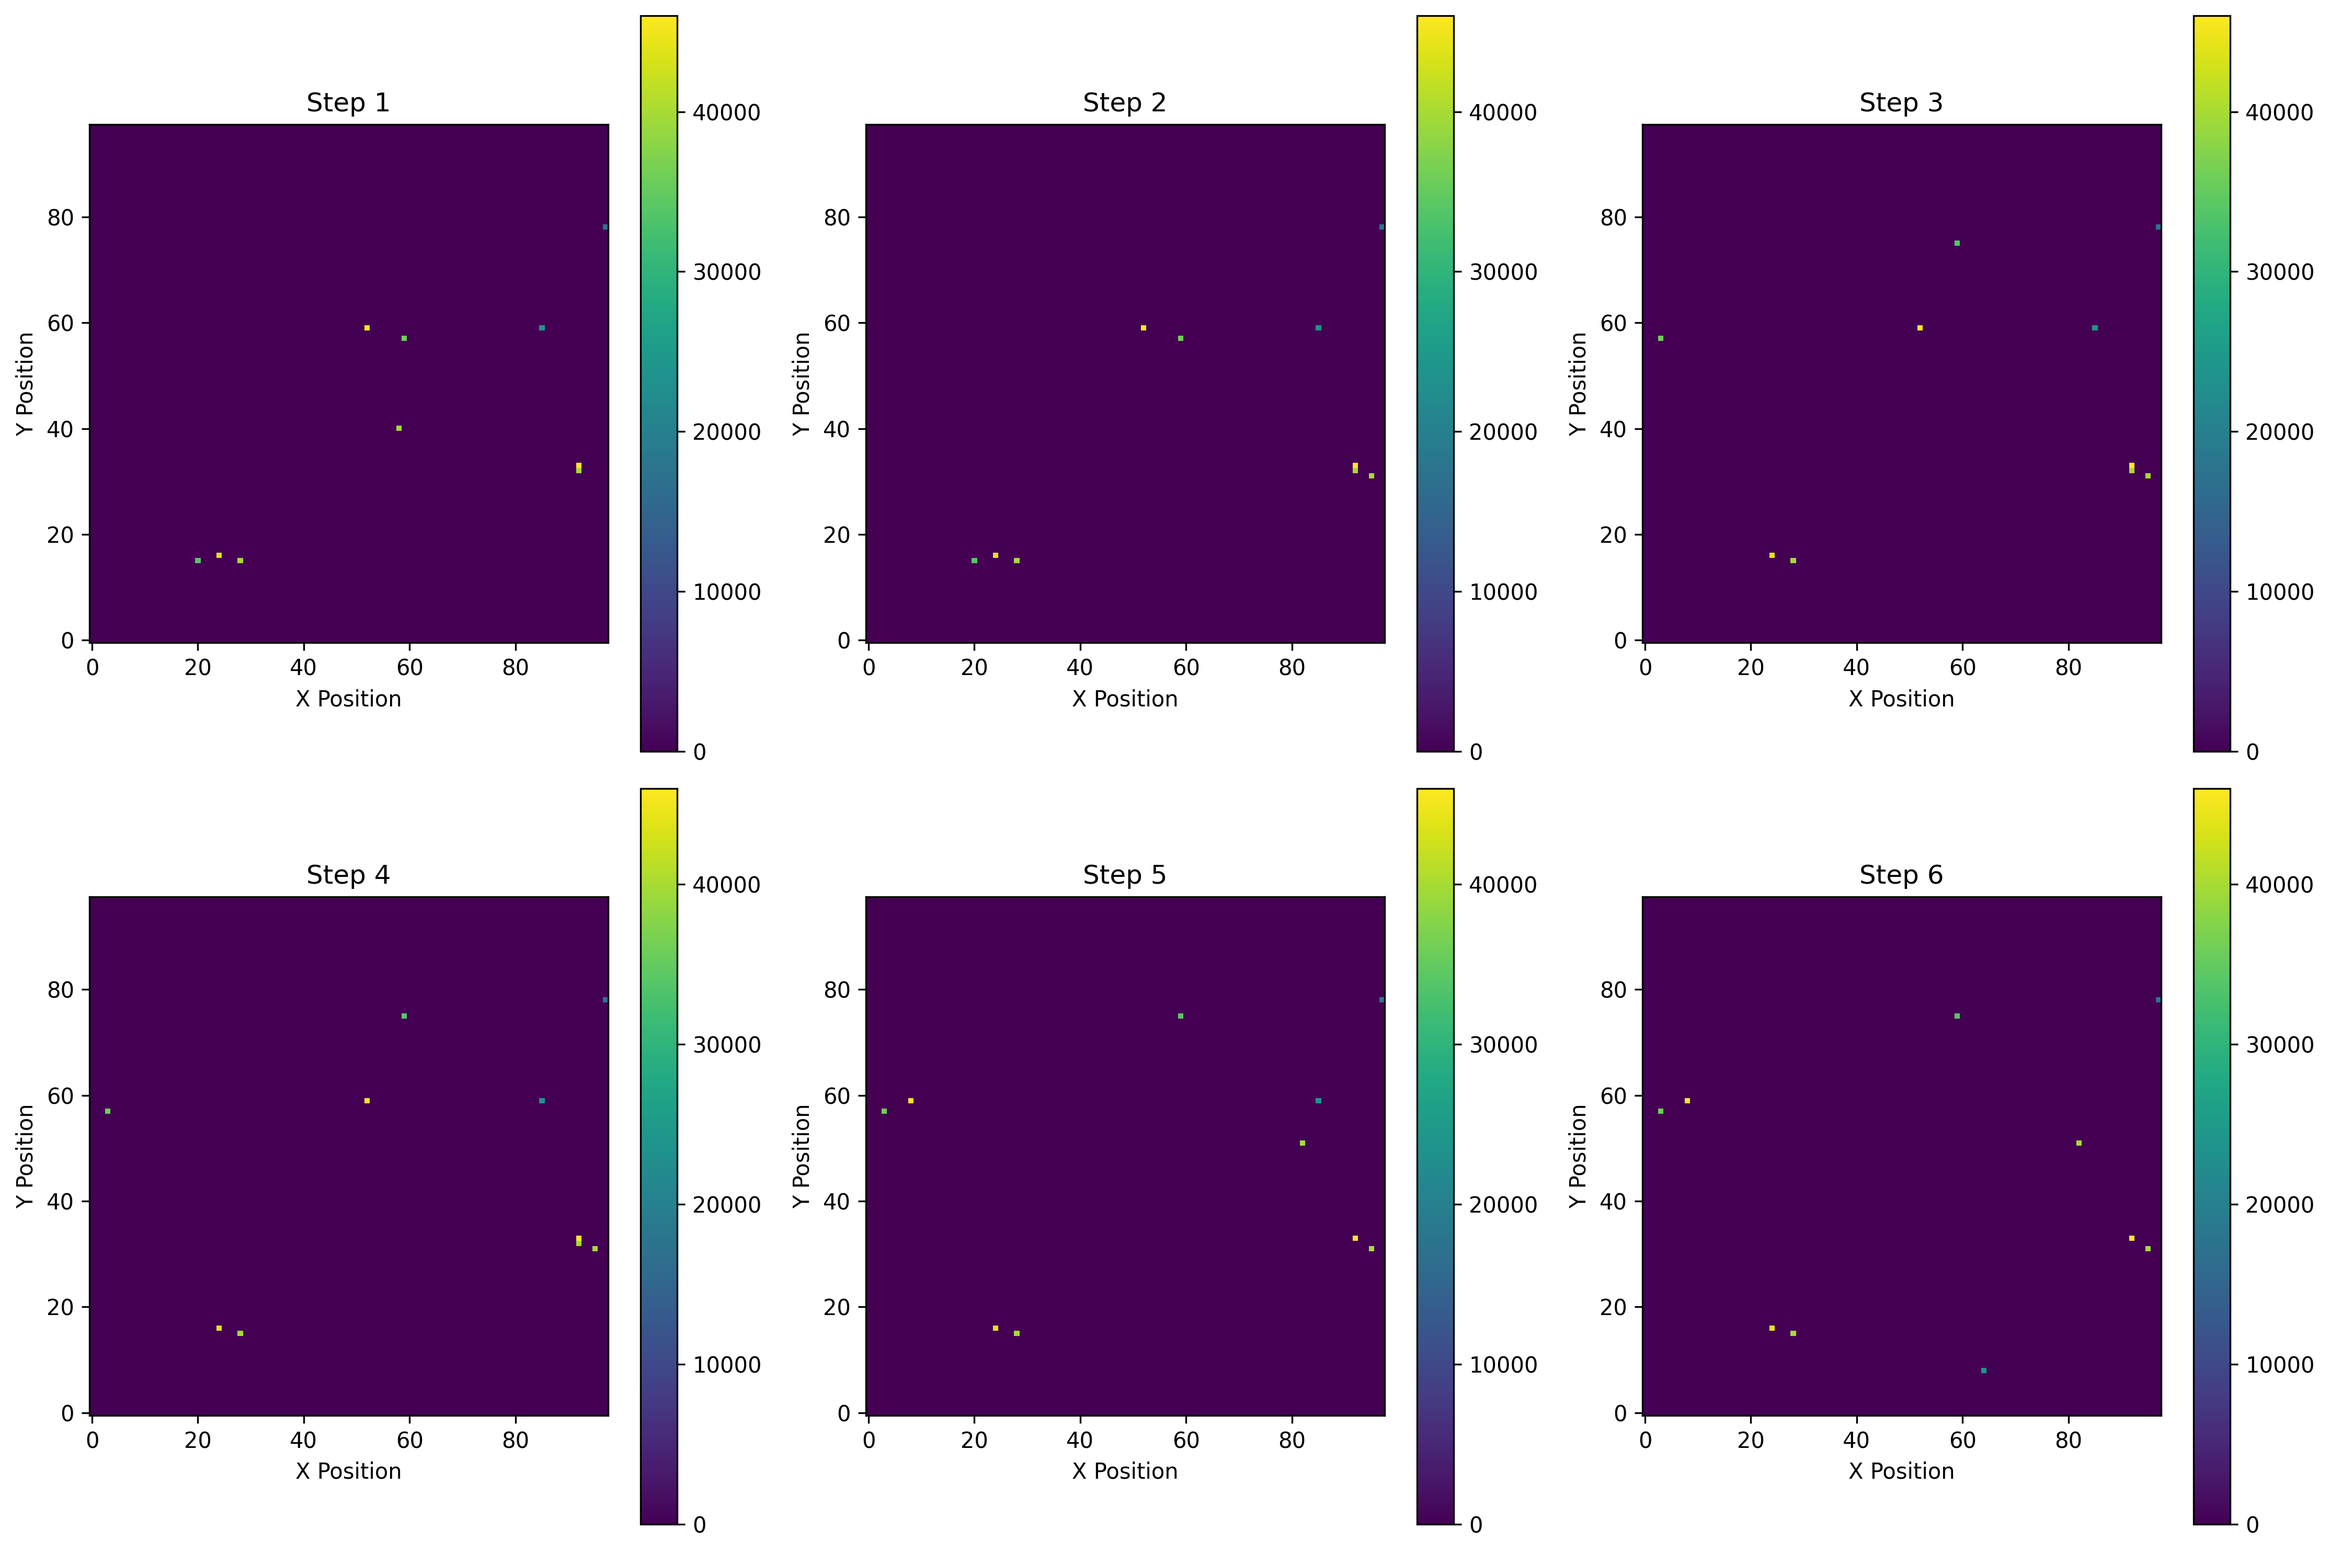
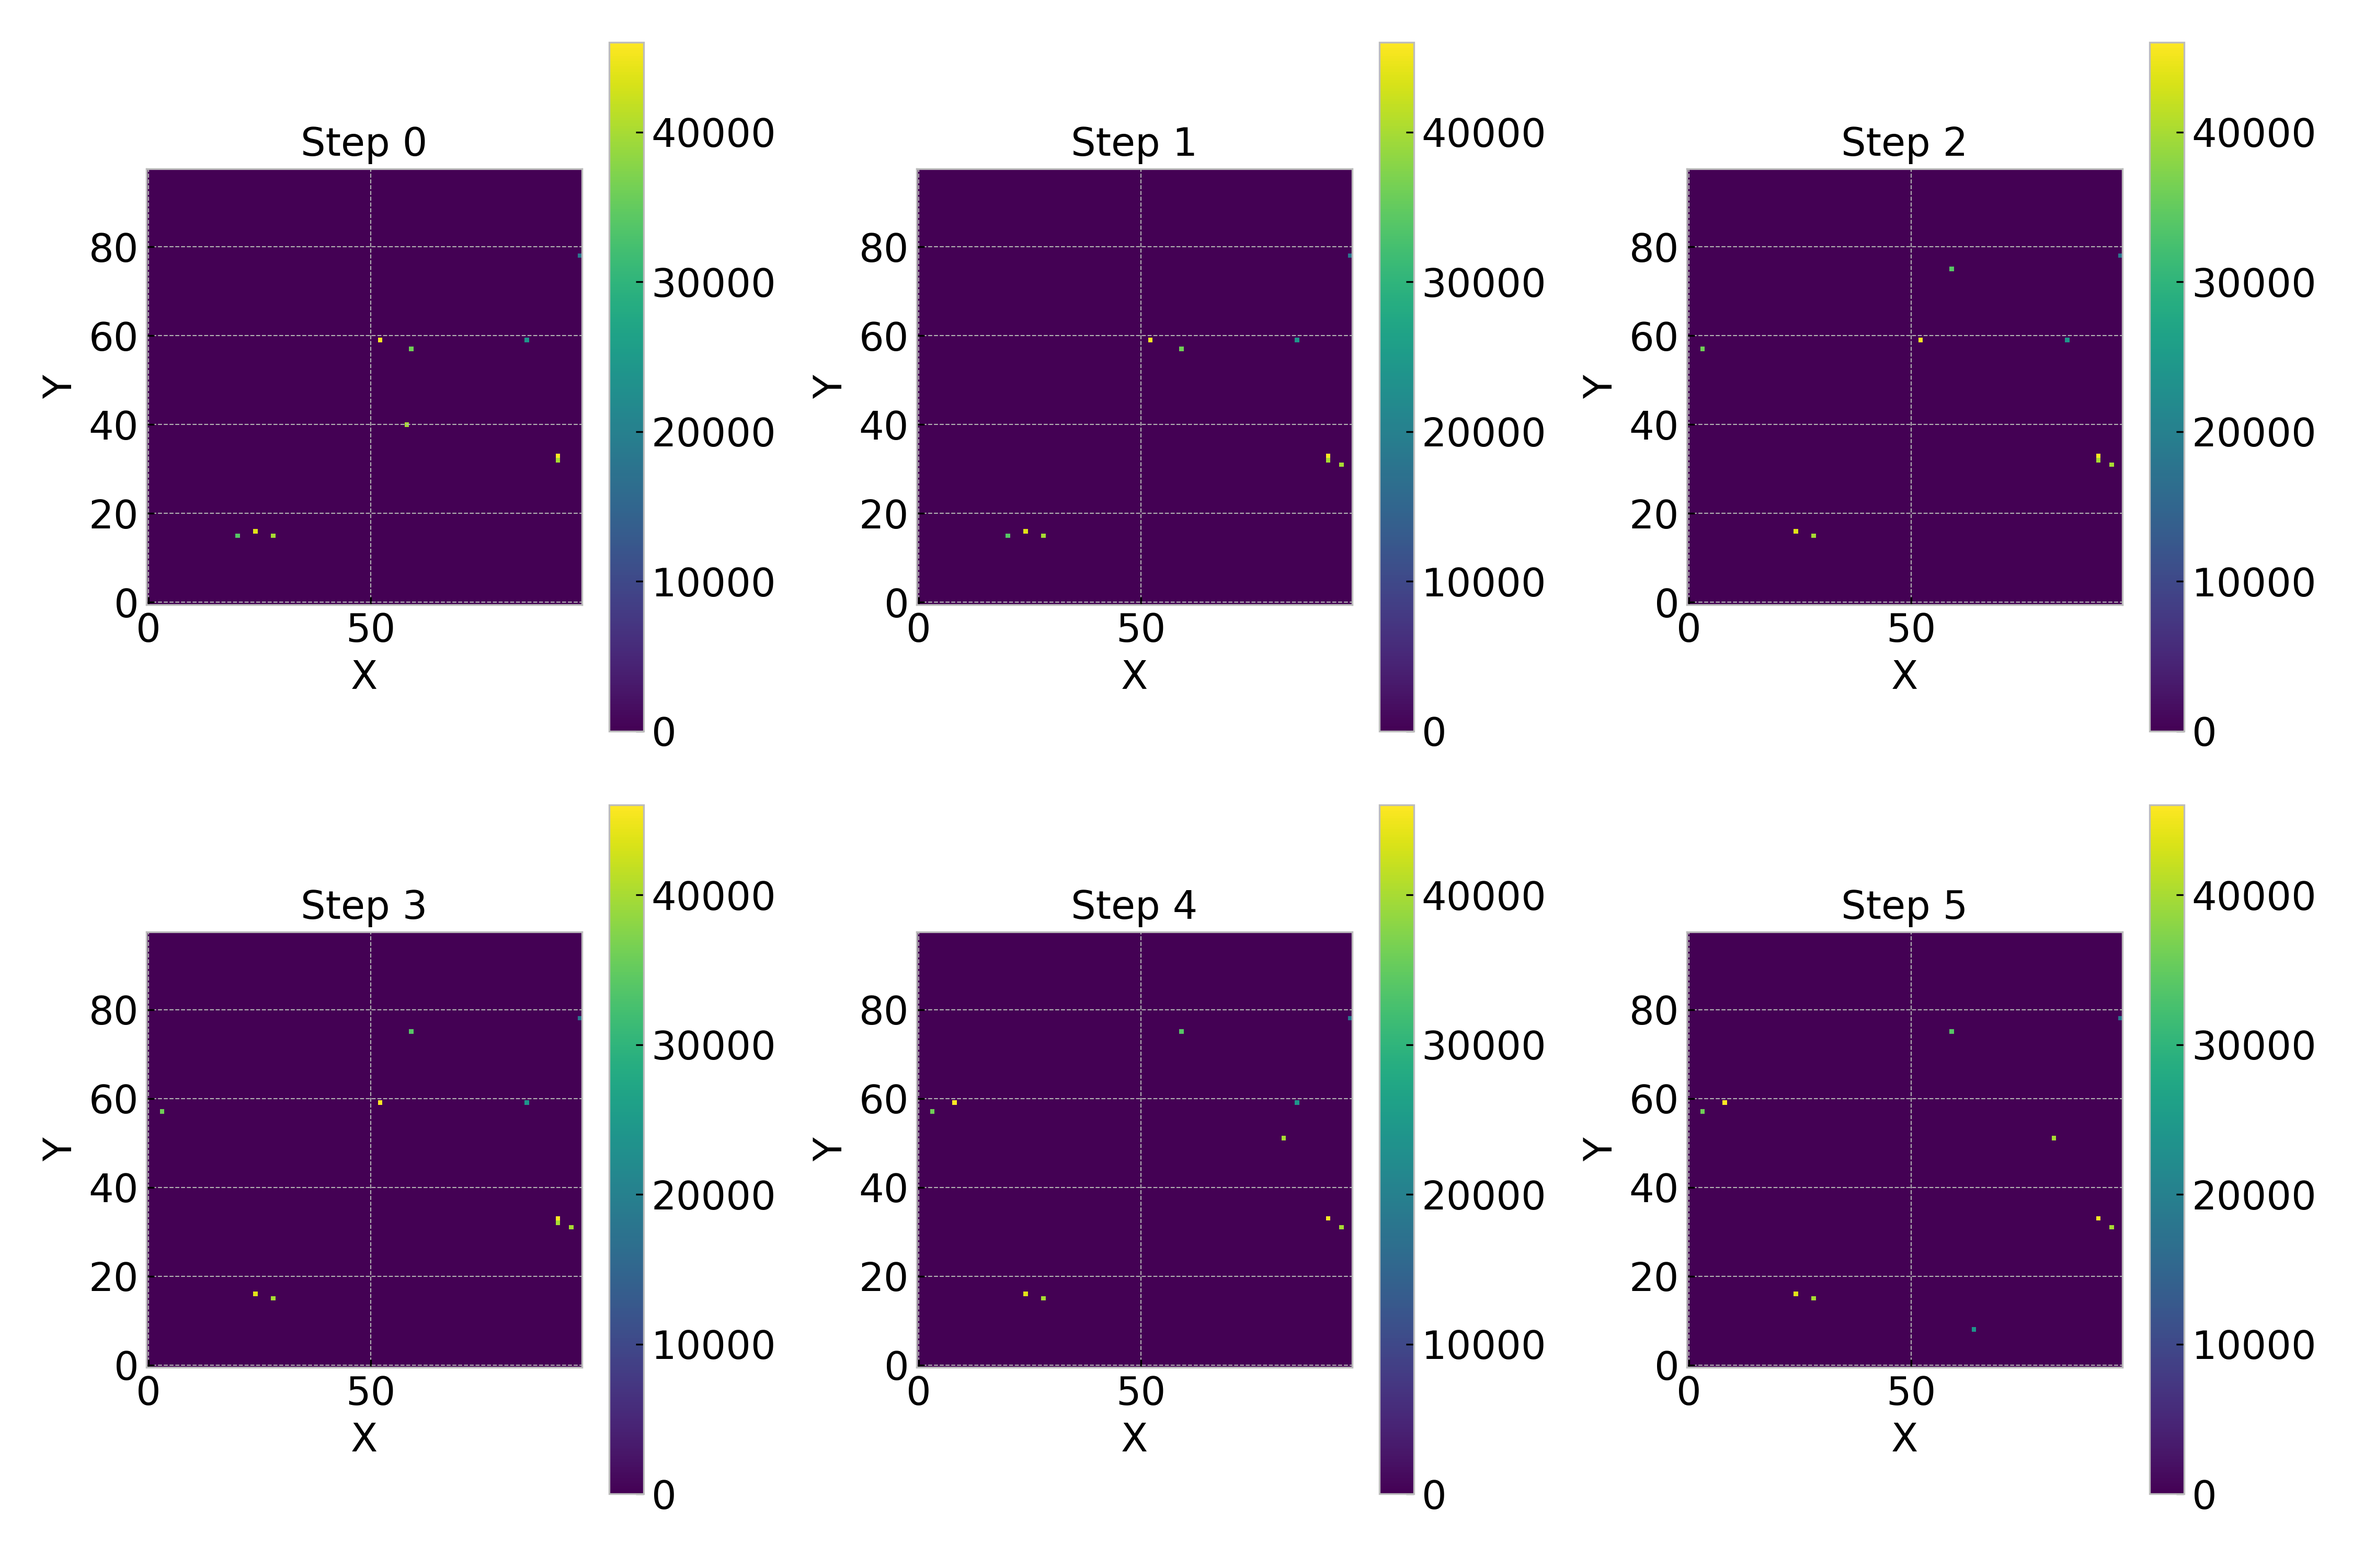
visualization

Changed region(s): [[0.0, 0.0, 0.6551, 0.9912], [0.6551, 0.0, 0.9982, 0.9912]]

diff --git a/src/csv_converter.py b/src/csv_converter.py
@@ -1,41 +1,27 @@
 import numpy as np
 import pandas as pd
-import matplotlib.pyplot as plt
-import matplotlib
 import ast
 import re
-from typing import Tuple, Optional, List
+from typing import Tuple, Optional
 
 
 def parse_position(pos_str: str) -> Tuple[int, int]:
-    """
-    Parse a position string into x, y coordinates.
-    Handles strings like "(np.int64(20), np.int64(15))" or plain tuples.
-    """
     try:
-        # Try extracting numbers wrapped in np.int64(...)
         numbers = re.findall(r'np\.int64\((\d+)\)', pos_str)
         if len(numbers) == 2:
             return int(numbers[0]), int(numbers[1])
-        # Fallback: regular tuple
         return tuple(ast.literal_eval(pos_str))
     except Exception:
         raise ValueError(f"Invalid position string: {pos_str}")
 
 
 def determine_grid_size(df: pd.DataFrame, grid_size: Optional[Tuple[int, int]]) -> Tuple[int, int]:
-    """
-    Determine grid size either from user input or based on data.
-    """
     if grid_size:
         return grid_size
     return df['y'].max() + 1, df['x'].max() + 1
 
 
 def create_grid_for_step(step_data: pd.DataFrame, grid_shape: Tuple[int, int], value_column: str) -> np.ndarray:
-    """
-    Create a single 2D grid for a time step.
-    """
     grid = np.zeros(grid_shape)
     for _, row in step_data.iterrows():
         x, y = int(row['x']), int(row['y'])
@@ -46,21 +32,11 @@ def create_grid_for_step(step_data: pd.DataFrame, grid_shape: Tuple[int, int], v
 
 def csv_to_timeseries_grid(csv_file_path: str, value_column: str = 'income',
                            grid_size: Optional[Tuple[int, int]] = None) -> np.ndarray:
-    """
-    Convert CSV agent data to a 3D time series grid.
-
-    Returns: ndarray of shape (time_steps, height, width)
-    """
     df = pd.read_csv(csv_file_path)
-
-    # Parse and split position
     df[['x', 'y']] = df['pos'].apply(parse_position).apply(pd.Series)
-
-    # Determine grid shape
     height, width = determine_grid_size(df, grid_size)
     shape = (len(df['Step'].unique()), height, width)
 
-    # Build time series grid
     steps = sorted(df['Step'].unique())
     ts_grid = np.zeros(shape)
 
@@ -69,66 +45,3 @@ def csv_to_timeseries_grid(csv_file_path: str, value_column: str = 'income',
         ts_grid[i] = create_grid_for_step(step_data, (height, width), value_column)
 
     return ts_grid
-
-
-def visualize_grid_evolution(timeseries_grid: np.ndarray, step_indices: Optional[List[int]] = None,
-                             figsize: Tuple[int, int] = (15, 10), save_path: Optional[str] = None):
-    """
-    Plot the evolution of a 3D time series grid over time.
-    """
-    if save_path:
-        matplotlib.use('Agg')  # Headless rendering
-
-    total_steps = timeseries_grid.shape[0]
-    if not step_indices:
-        step_indices = list(range(min(6, total_steps)))
-
-    n = len(step_indices)
-    cols = min(3, n)
-    rows = -(-n // cols)  # Ceiling division
-
-    fig, axes = plt.subplots(rows, cols, figsize=figsize)
-    axes = np.atleast_2d(axes).reshape(rows, cols)
-
-    for i, step_idx in enumerate(step_indices):
-        ax = axes[i // cols, i % cols]
-        im = ax.imshow(timeseries_grid[step_idx], cmap='viridis', origin='lower')
-        ax.set_title(f"Step {step_idx}")
-        ax.set_xlabel("X")
-        ax.set_ylabel("Y")
-        plt.colorbar(im, ax=ax)
-
-    # Hide any unused axes
-    for j in range(n, rows * cols):
-        axes[j // cols, j % cols].axis('off')
-
-    plt.tight_layout()
-
-    if save_path:
-        plt.savefig(save_path, dpi=300)
-        print(f"Plot saved to: {save_path}")
-    else:
-        plt.show()
-
-
-# -----------------------
-# Example Usage
-# -----------------------
-if __name__ == "__main__":
-    filepath = 'data/agent_data.csv'
-
-    # Grid using income values
-    income_grids = csv_to_timeseries_grid(filepath, value_column='income')
-    print(f"Income grids shape: {income_grids.shape}")
-
-    # Grid using agent IDs
-    agent_grids = csv_to_timeseries_grid(filepath, value_column='AgentID')
-    print(f"Agent ID grids shape: {agent_grids.shape}")
-
-    # Stats
-    print(f"Grid size: {income_grids.shape[1]} x {income_grids.shape[2]}")
-    print(f"Time steps: {income_grids.shape[0]}")
-    print(f"Income range: {income_grids.min()} - {income_grids.max()}")
-
-    # Visualize
-    visualize_grid_evolution(income_grids, save_path='fig/income_grid_evolution.png')

diff --git a/scripts/create_plots.py b/scripts/create_plots.py
@@ -1,5 +1,9 @@
 import matplotlib.pyplot as plt
 import pandas as pd
+import numpy as np
+
+import matplotlib
+from typing import List, Optional, Tuple
 
 from src.income_distribution import repeat_data, load_distribution
 
@@ -36,5 +40,44 @@ def plot_income_distribution(
     if save:
         plt.savefig(save_path)
         plt.close()
+    else:
+        plt.show()
+
+
+def visualize_grid_evolution(timeseries_grid: np.ndarray,
+                             step_indices: Optional[List[int]] = None,
+                             figsize: Tuple[int, int] = (15, 10),
+                             save_path: Optional[str] = None):
+    if save_path:
+        matplotlib.use('Agg')
+
+    total_steps = timeseries_grid.shape[0]
+    if not step_indices:
+        step_indices = list(range(min(6, total_steps)))
+
+    n = len(step_indices)
+    cols = min(3, n)
+    rows = -(-n // cols)  # Ceiling division
+
+    fig, axes = plt.subplots(rows, cols, figsize=figsize)
+    axes = np.atleast_2d(axes).reshape(rows, cols)
+
+    for i, step_idx in enumerate(step_indices):
+        ax = axes[i // cols, i % cols]
+        im = ax.imshow(timeseries_grid[step_idx],
+                       cmap='viridis', origin='lower')
+        ax.set_title(f"Step {step_idx}")
+        ax.set_xlabel("X")
+        ax.set_ylabel("Y")
+        plt.colorbar(im, ax=ax)
+
+    for j in range(n, rows * cols):
+        axes[j // cols, j % cols].axis('off')
+
+    plt.tight_layout()
+
+    if save_path:
+        plt.savefig(save_path, dpi=300)
+        print(f"Plot saved to: {save_path}")
     else:
         plt.show()

diff --git a/scripts/model_vis.py b/scripts/model_vis.py
@@ -1,0 +1,25 @@
+from src.csv_converter import csv_to_timeseries_grid
+from scripts.create_plots import visualize_grid_evolution
+
+def main():
+    file_path = 'data/agent_data.csv'
+
+    # Convert using income
+    income_grids = csv_to_timeseries_grid(file_path, value_column='income')
+    print(f"Income grid shape: {income_grids.shape}")
+
+    # Convert using agent ID
+    agent_grids = csv_to_timeseries_grid(file_path, value_column='AgentID')
+    print(f"Agent ID grid shape: {agent_grids.shape}")
+
+    # Stats
+    print(f"Grid size: {income_grids.shape[1]} x {income_grids.shape[2]}")
+    print(f"Time steps: {income_grids.shape[0]}")
+    print(f"Income range: {income_grids.min()} - {income_grids.max()}")
+
+    # Plot
+    visualize_grid_evolution(income_grids, save_path='fig/income_grid_evolution.png')
+
+
+if __name__ == "__main__":
+    main()
